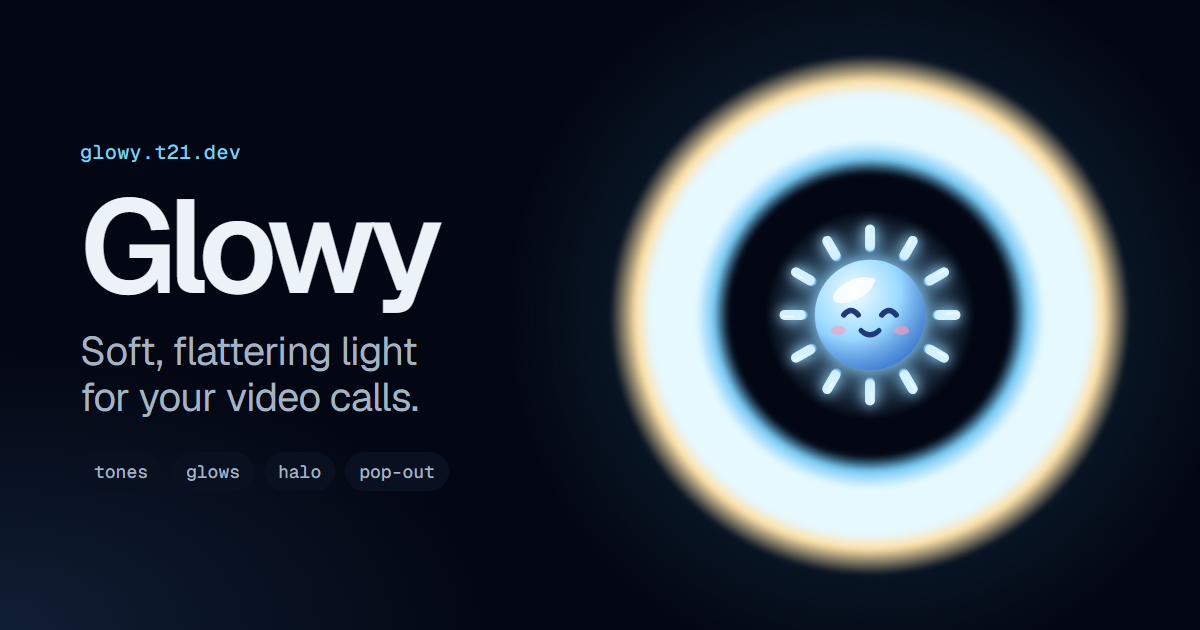
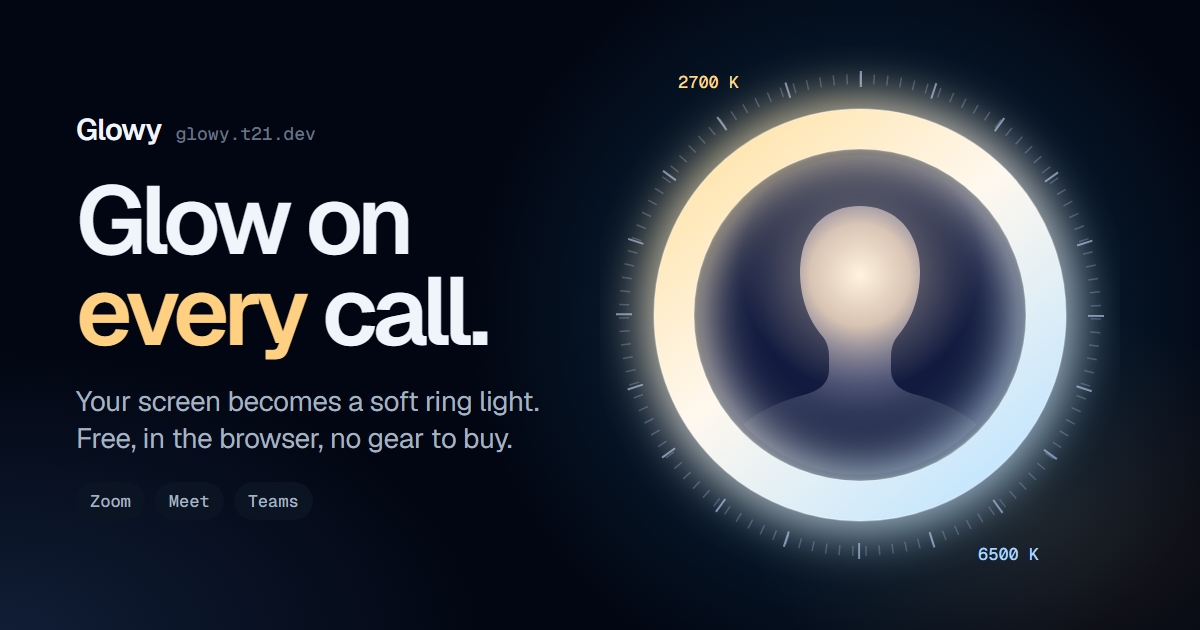
feat: redesign share image around a lit portrait and a new headline
Replace the logo art with the product in one picture: a person softly
lit by a ring light inside a 2700 K to 6500 K dial. New headline
"Glow on every call." with a plainer supporting line, and alt text
updated to match.

Claude-Session: https://claude.ai/code/session_01StsFQ95KxiTm59DUCLDbLt

diff --git a/design/og/og.html b/design/og/og.html
@@ -5,48 +5,103 @@
 <title>Glowy OG image</title>
 <link rel="stylesheet" href="https://fonts.googleapis.com/css2?family=Geist:wght@400;500;600&family=Geist+Mono:wght@400;500&display=swap">
 <style>
-/* Source for public/og-image.png (1200×630). Render with: python scripts/render-og.py */
+/* Source for public/og-image.png (1200×630). Render with: python scripts/render-og.py
+   Layout: headline left; right, the product in one picture: a portrait lit by a ring light inside a kelvin dial. */
 :root {
-  --night: oklch(13% 0.03 262);
-  --night-2: oklch(18% 0.035 262);
-  --ink: oklch(96% 0.01 240);
+  --night: oklch(12.5% 0.03 262);
+  --night-2: oklch(19% 0.035 262);
+  --ink: oklch(97% 0.01 240);
   --ink-2: oklch(76% 0.025 245);
-  --ink-3: oklch(58% 0.03 250);
+  --ink-3: oklch(55% 0.03 250);
   --accent: oklch(82% 0.1 226);
-  --ring: oklch(97% 0.025 230);
-  --ring-glow: oklch(80% 0.1 232);
-  --warm: oklch(92% 0.08 85);
+  --warm: oklch(88% 0.11 78);
 }
 * { box-sizing: border-box; margin: 0; }
 html, body { width: 1200px; height: 630px; overflow: hidden; background: var(--night); }
 body { font-family: 'Geist', system-ui, sans-serif; color: var(--ink); -webkit-font-smoothing: antialiased; position: relative; }
 .bg { position: absolute; inset: 0;
   background:
-    radial-gradient(520px 520px at 870px 315px, oklch(70% 0.12 235 / 0.28), transparent 70%),
-    radial-gradient(700px 400px at 0px 630px, oklch(40% 0.08 255 / 0.35), transparent 70%),
+    radial-gradient(560px 560px at 860px 315px, oklch(62% 0.13 240 / 0.30), transparent 70%),
+    radial-gradient(420px 300px at 1040px 520px, oklch(80% 0.1 75 / 0.12), transparent 70%),
+    radial-gradient(700px 420px at 0px 640px, oklch(38% 0.08 258 / 0.40), transparent 70%),
     var(--night); }
-/* The halo: the product's ring-light shape */
-.halo { position: absolute; left: 870px; top: 315px; width: 520px; height: 520px; margin: -260px 0 0 -260px; border-radius: 50%;
-  background: radial-gradient(circle closest-side, var(--night) 0 54%, var(--ring-glow) 60%, var(--ring) 67% 84%, var(--warm) 90%, transparent 100%);
-  filter: blur(2px); }
-.sun { position: absolute; left: 870px; top: 315px; width: 210px; height: 210px; margin: -105px 0 0 -105px; }
-.copy { position: absolute; left: 80px; top: 0; bottom: 0; width: 560px; display: flex; flex-direction: column; justify-content: center; gap: 22px; }
-.url { font: 500 20px 'Geist Mono', monospace; color: var(--accent); letter-spacing: 0.02em; }
-h1 { font: 600 132px/0.9 'Geist', sans-serif; letter-spacing: -0.06em; }
-.tag { font: 400 40px/1.15 'Geist', sans-serif; color: var(--ink-2); letter-spacing: -0.02em; text-wrap: balance; }
-.chips { display: flex; gap: 10px; margin-top: 10px; }
-.chips span { font: 500 18px 'Geist Mono', monospace; color: var(--ink-2); padding: 8px 14px; border-radius: 999px; background: var(--night-2); }
+.art { position: absolute; left: 600px; top: 0; width: 520px; height: 630px; }
+.copy { position: absolute; left: 76px; top: 0; bottom: 0; width: 520px; display: flex; flex-direction: column; justify-content: center; gap: 26px; }
+.brand { display: flex; align-items: baseline; gap: 14px; }
+.brand b { font: 600 30px 'Geist', sans-serif; letter-spacing: -0.03em; }
+.brand span { font: 500 18px 'Geist Mono', monospace; color: var(--ink-3); }
+h1 { font: 600 96px/0.95 'Geist', sans-serif; letter-spacing: -0.055em; text-wrap: balance; }
+h1 em { font-style: normal; color: var(--warm); }
+.sub { font: 400 28px/1.3 'Geist', sans-serif; color: var(--ink-2); letter-spacing: -0.015em; max-width: 470px; }
+.apps { display: flex; gap: 10px; }
+.apps span { font: 500 17px 'Geist Mono', monospace; color: var(--ink-2); padding: 8px 14px; border-radius: 999px; background: var(--night-2); }
 </style>
 </head>
 <body>
   <div class="bg"></div>
-  <div class="halo"></div>
-  <img class="sun" src="../../src/assets/blue-sun.svg" alt="">
+
+  <svg class="art" viewBox="0 0 520 630" aria-hidden="true">
+    <defs>
+      <!-- ring: warm at the top-left, ice blue at the bottom-right (the app's 2700 K → 6500 K range) -->
+      <linearGradient id="ring" x1="0.1" y1="0" x2="0.9" y2="1">
+        <stop offset="0" stop-color="#FFE3A8" />
+        <stop offset="0.45" stop-color="#FFF8EE" />
+        <stop offset="1" stop-color="#BFE4FF" />
+      </linearGradient>
+      <filter id="bloom" x="-50%" y="-50%" width="200%" height="200%"><feGaussianBlur stdDeviation="26" /></filter>
+      <filter id="soft" x="-50%" y="-50%" width="200%" height="200%"><feGaussianBlur stdDeviation="6" /></filter>
+      <!-- the light falling on the face from the ring -->
+      <!-- the light falling on the person: brightest on the face, fading down the shoulders -->
+      <radialGradient id="facelight" cx="50%" cy="22%" r="58%">
+        <stop offset="0" stop-color="#FFF3E0" stop-opacity="1" />
+        <stop offset="0.28" stop-color="#F6DCC2" stop-opacity="0.85" />
+        <stop offset="0.62" stop-color="#8E8FB0" stop-opacity="0.35" />
+        <stop offset="1" stop-color="#1A2340" stop-opacity="0" />
+      </radialGradient>
+      <linearGradient id="body" x1="0" y1="0" x2="0" y2="1">
+        <stop offset="0" stop-color="#3B4672" />
+        <stop offset="1" stop-color="#141C38" />
+      </linearGradient>
+      <radialGradient id="aura" r="50%">
+        <stop offset="0" stop-color="#FFE9C9" stop-opacity="0.55" />
+        <stop offset="1" stop-color="#FFE9C9" stop-opacity="0" />
+      </radialGradient>
+      <path id="person" d="M260 206 C 298 206 320 234 320 272 C 320 300 310 322 297 337 C 293 342 291 349 291 357 L 291 370 C 291 382 299 390 313 394 C 360 406 398 430 414 482 L 414 520 L 106 520 L 106 482 C 122 430 160 406 207 394 C 221 390 229 382 229 370 L 229 357 C 229 349 227 342 223 337 C 210 322 200 300 200 272 C 200 234 222 206 260 206 Z" />
+      <clipPath id="inside"><circle cx="260" cy="315" r="160" /></clipPath>
+    </defs>
+
+    <!-- kelvin dial around the ring -->
+    <circle cx="260" cy="315" r="236" fill="none" stroke="#5B6B8C" stroke-opacity="0.55" stroke-width="10"
+      stroke-dasharray="1.5 11.85" transform="rotate(-90 260 315)" />
+    <circle cx="260" cy="315" r="236" fill="none" stroke="#8FA3C7" stroke-opacity="0.8" stroke-width="16"
+      stroke-dasharray="2 72.1" transform="rotate(-90 260 315)" />
+    <text x="78" y="88" fill="#FFD98A" font-family="Geist Mono, monospace" font-size="17" font-weight="500">2700 K</text>
+    <text x="378" y="560" fill="#A9D8FF" font-family="Geist Mono, monospace" font-size="17" font-weight="500">6500 K</text>
+
+    <!-- inner darkness + portrait -->
+    <circle cx="260" cy="315" r="164" fill="#0E1530" />
+    <g clip-path="url(#inside)">
+      <circle cx="260" cy="315" r="164" fill="#16204A" opacity="0.6" />
+      <!-- warm spill on the wall behind the head -->
+      <ellipse cx="260" cy="270" rx="120" ry="120" fill="url(#aura)" />
+      <!-- one continuous head-and-shoulders silhouette -->
+      <use href="#person" fill="url(#body)" />
+      <!-- soft key light from the ring falling on the face -->
+      <use href="#person" fill="url(#facelight)" />
+    </g>
+
+    <!-- the ring light -->
+    <circle cx="260" cy="315" r="186" fill="none" stroke="url(#ring)" stroke-width="58" opacity="0.85" filter="url(#bloom)" />
+    <circle cx="260" cy="315" r="186" fill="none" stroke="url(#ring)" stroke-width="40" />
+    <circle cx="260" cy="315" r="206" fill="none" stroke="#FFFFFF" stroke-opacity="0.35" stroke-width="1.5" />
+    <circle cx="260" cy="315" r="166" fill="none" stroke="#FFFFFF" stroke-opacity="0.25" stroke-width="1.5" />
+  </svg>
+
   <div class="copy">
-    <div class="url">glowy.t21.dev</div>
-    <h1>Glowy</h1>
-    <p class="tag">Soft, flattering light for your video calls.</p>
-    <div class="chips"><span>tones</span><span>glows</span><span>halo</span><span>pop-out</span></div>
+    <div class="brand"><b>Glowy</b><span>glowy.t21.dev</span></div>
+    <h1>Glow on <em>every</em> call.</h1>
+    <p class="sub">Your screen becomes a soft ring light. Free, in the browser, no gear to buy.</p>
+    <div class="apps"><span>Zoom</span><span>Meet</span><span>Teams</span></div>
   </div>
 </body>
 </html>

diff --git a/index.html b/index.html
@@ -31,7 +31,7 @@
     <meta property="og:image:type" content="image/png" />
     <meta property="og:image:width" content="1200" />
     <meta property="og:image:height" content="630" />
-    <meta property="og:image:alt" content="Glowy: a smiling blue sun inside a glowing ring light, with the tagline Soft, flattering light for your video calls." />
+    <meta property="og:image:alt" content="Glowy: a person softly lit by a glowing ring light inside a 2700 K to 6500 K dial, with the headline Glow on every call." />
     <meta property="og:locale" content="en_US" />
 
     <!-- X / Twitter -->
@@ -42,7 +42,7 @@
       content="Turn any screen into a soft, flattering ring light for your video calls."
     />
     <meta name="twitter:image" content="https://glowy.t21.dev/og-image.png" />
-    <meta name="twitter:image:alt" content="Glowy: a smiling blue sun inside a glowing ring light." />
+    <meta name="twitter:image:alt" content="A person softly lit by a glowing ring light, with the headline Glow on every call." />
 
     <!-- App / install -->
     <meta name="apple-mobile-web-app-capable" content="yes" />
